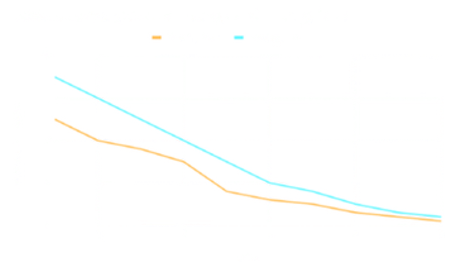
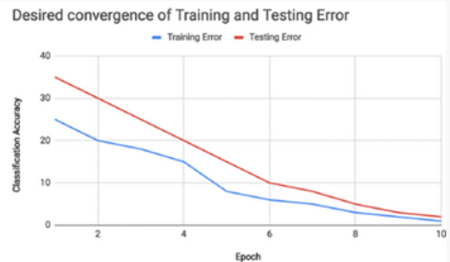
Image fix (#52)
* image

* image fix

* icon added

diff --git a/inference_viewer.py b/inference_viewer.py
@@ -42,7 +42,7 @@ class inference_viewer(QtGui.QMainWindow):
         self.rali_pixmap = QPixmap("./data/images/RALI.png")
         self.rali_white_pixmap = QPixmap("./data/images/RALI-white.png")
         self.graph_image_pixmap = QPixmap("./data/images/Graph-image.png")
-
+        self.graph_image_white_pixmap = QPixmap("./data/images/Graph-image-white.png")
         self.initUI()
 
         self.show()
@@ -205,6 +205,7 @@ class inference_viewer(QtGui.QMainWindow):
             self.AMD_logo.setPixmap(self.AMD_Radeon_white_pixmap)
             if self.rali_checkBox.isChecked():
                 self.MIVisionX_logo.setPixmap(self.rali_white_pixmap)
+                self.graph_imageLabel.setPixmap(self.graph_image_white_pixmap)
             else:
                 self.MIVisionX_logo.setPixmap(self.MIVisionX_white_pixmap)
             self.EPYC_logo.setPixmap(self.EPYC_white_pixmap)
@@ -230,6 +231,7 @@ class inference_viewer(QtGui.QMainWindow):
             self.AMD_logo.setPixmap(self.AMD_Radeon_pixmap)
             if self.rali_checkBox.isChecked():
                 self.MIVisionX_logo.setPixmap(self.rali_pixmap)
+                self.graph_imageLabel.setPixmap(self.graph_image_pixmap)
             else:
                 self.MIVisionX_logo.setPixmap(self.MIVisionX_pixmap)
             self.EPYC_logo.setPixmap(self.EPYC_pixmap)
